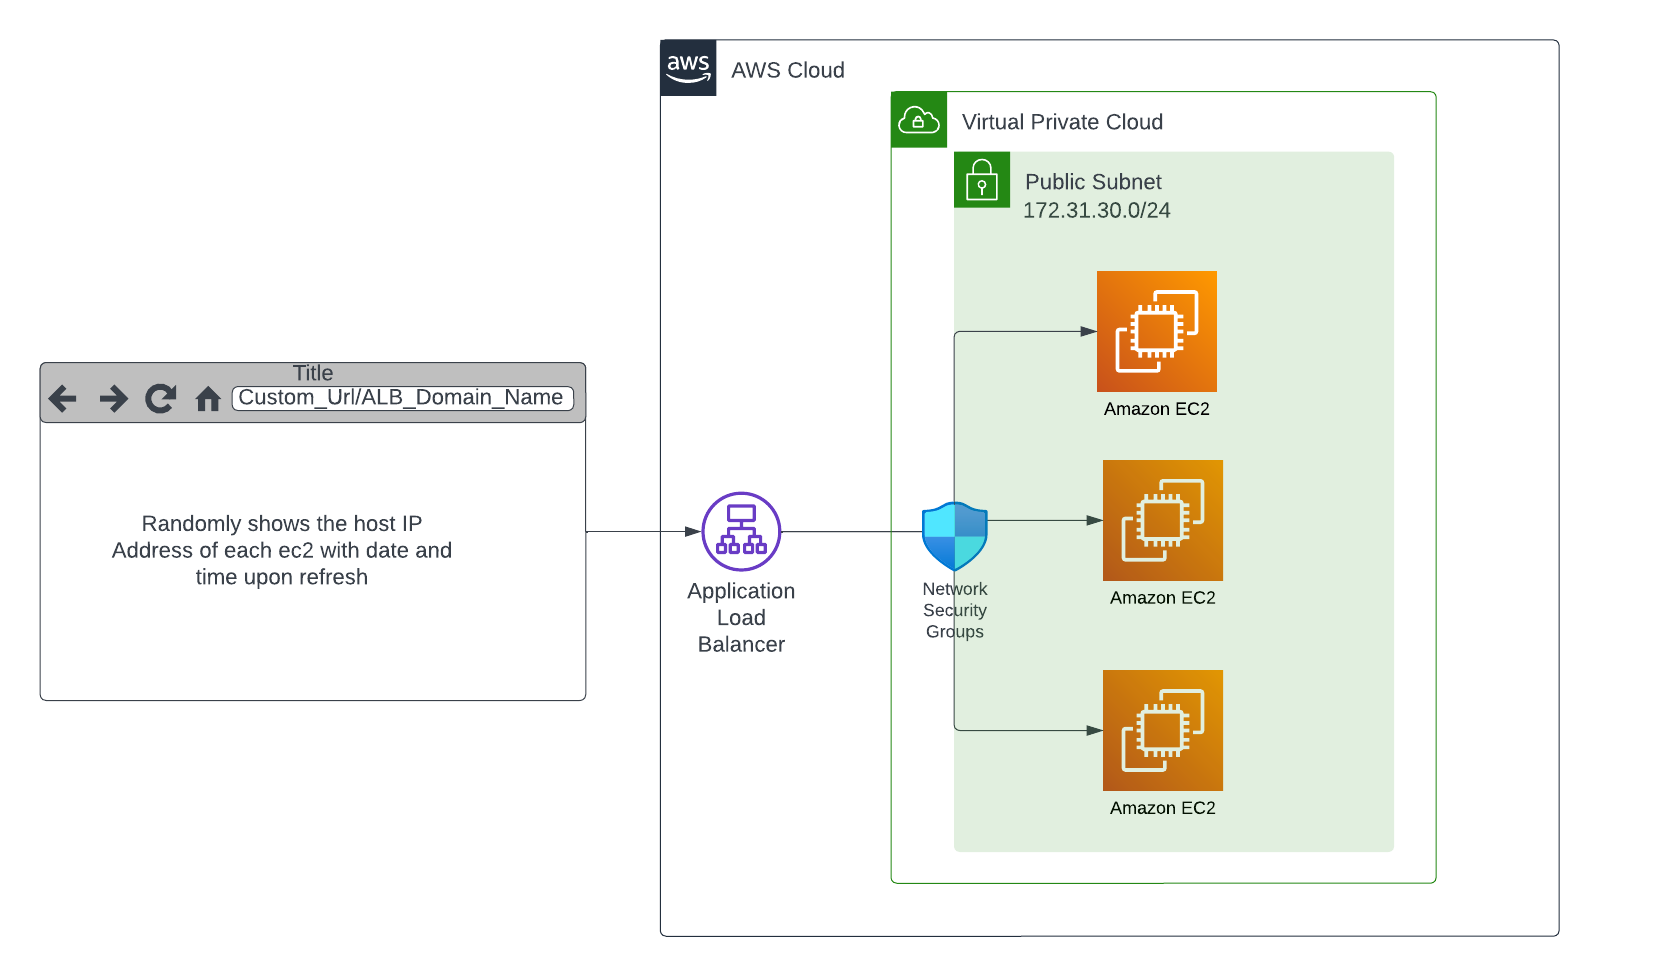
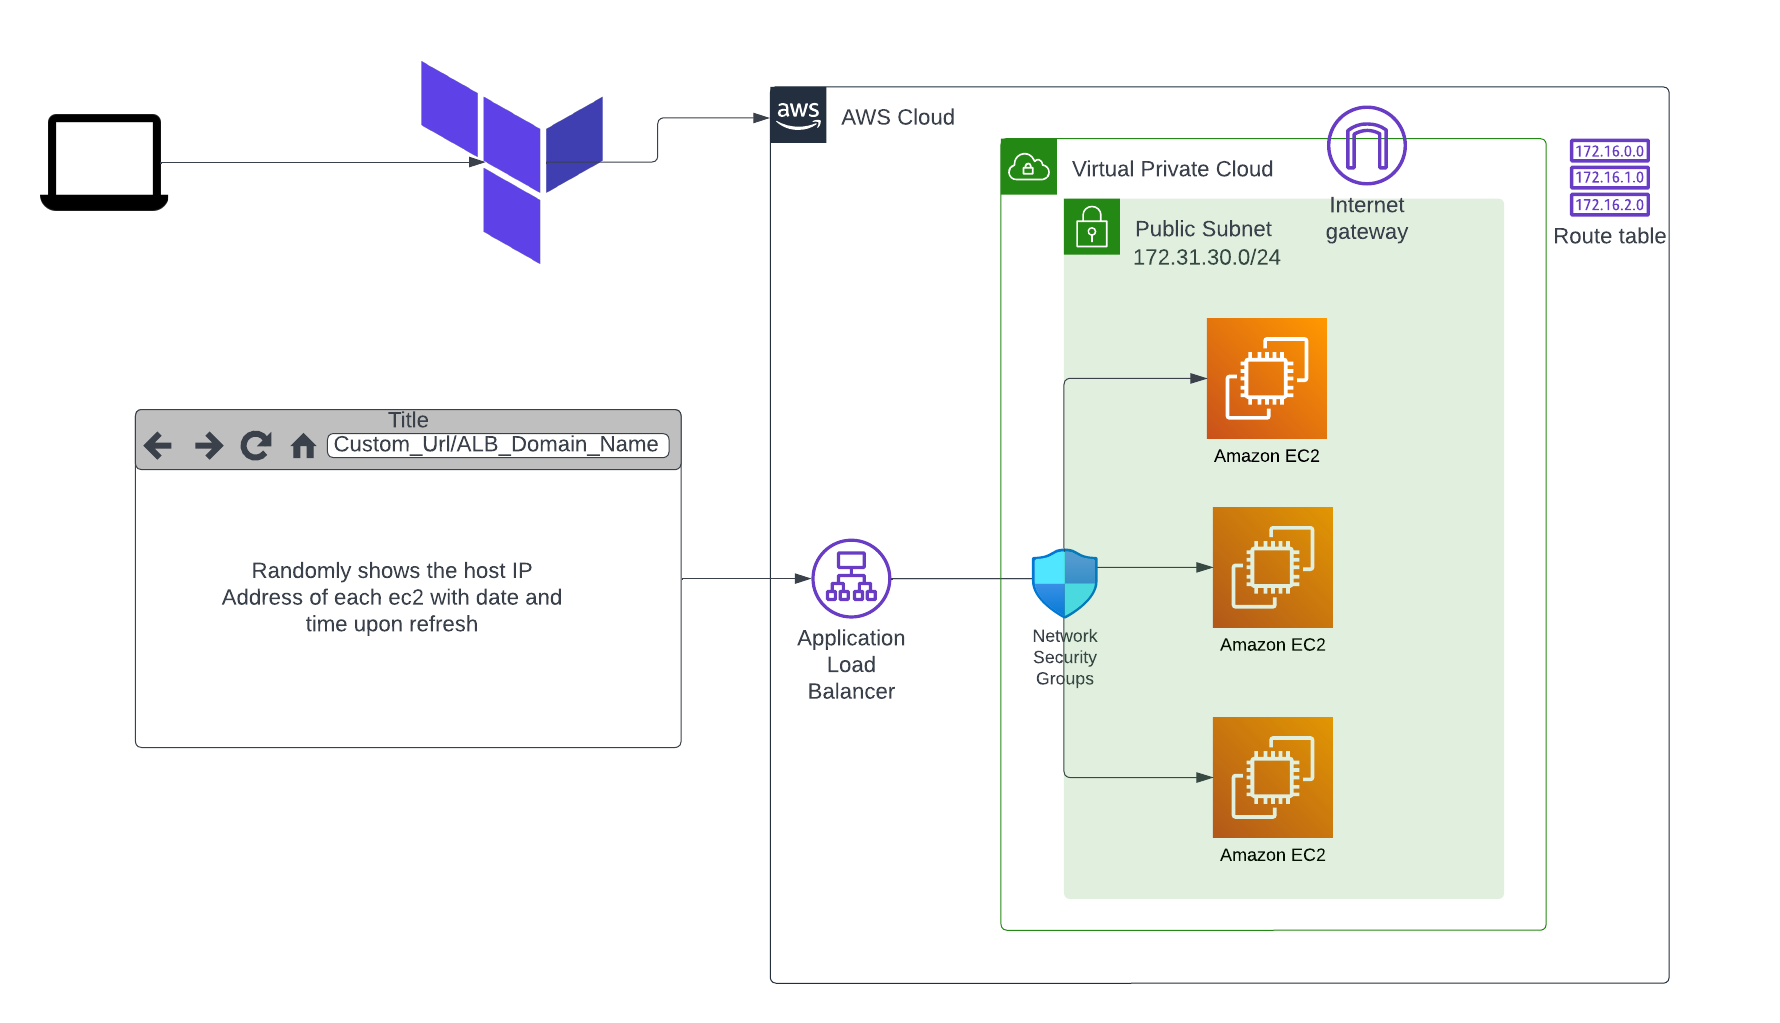
image and readme update

diff --git a/Project_Holiday_Challenge_16Dec23/README.md b/Project_Holiday_Challenge_16Dec23/README.md
@@ -12,11 +12,16 @@
 
 ## Prerequisites
 
-Create vpc
-create empty target group
-create autoscaling group, (create launch template 1st, then later add to traget group)
-create loadbalncer
-simulate asg taking action
+- Aws Account
+- willingness to laern
+
+### We would be creating our infrastructure in this order
+
+1. Create vpc
+1. create empty target group
+1. Create autoscaling group, (create launch template 1st, then later add to traget group)
+1. create loadbalncer
+1. simulate asg taking action
 
 # A. Create VPC
 
